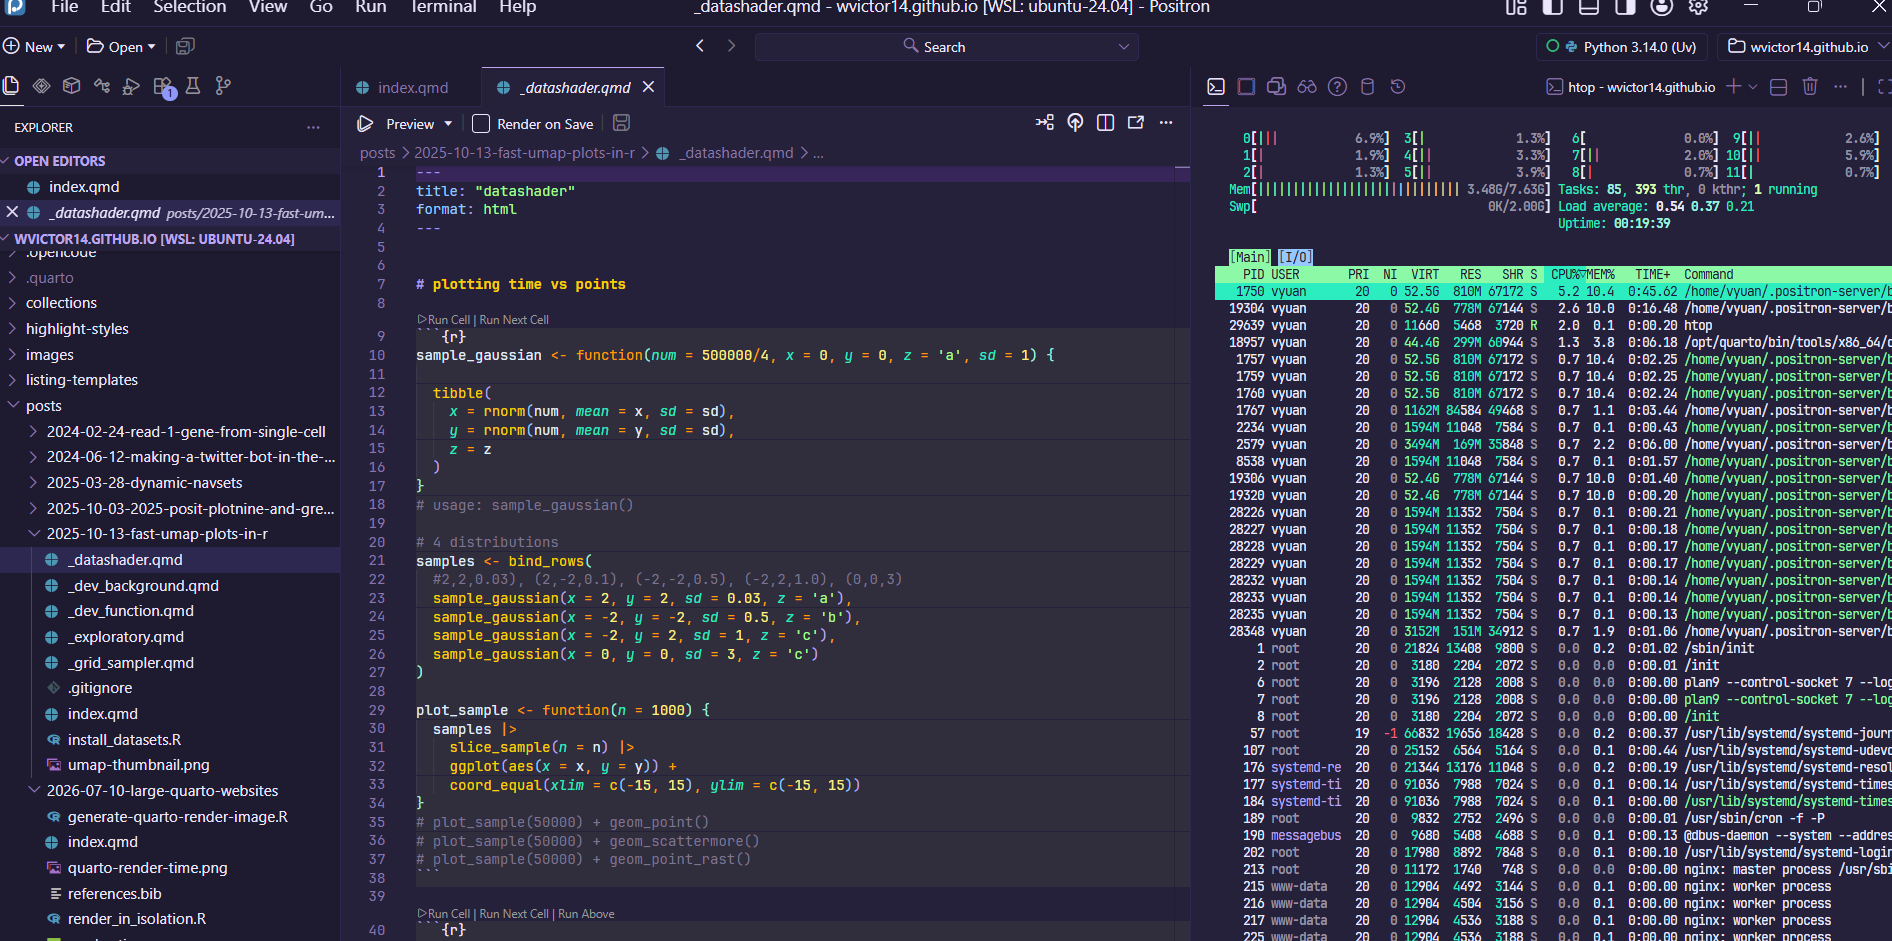
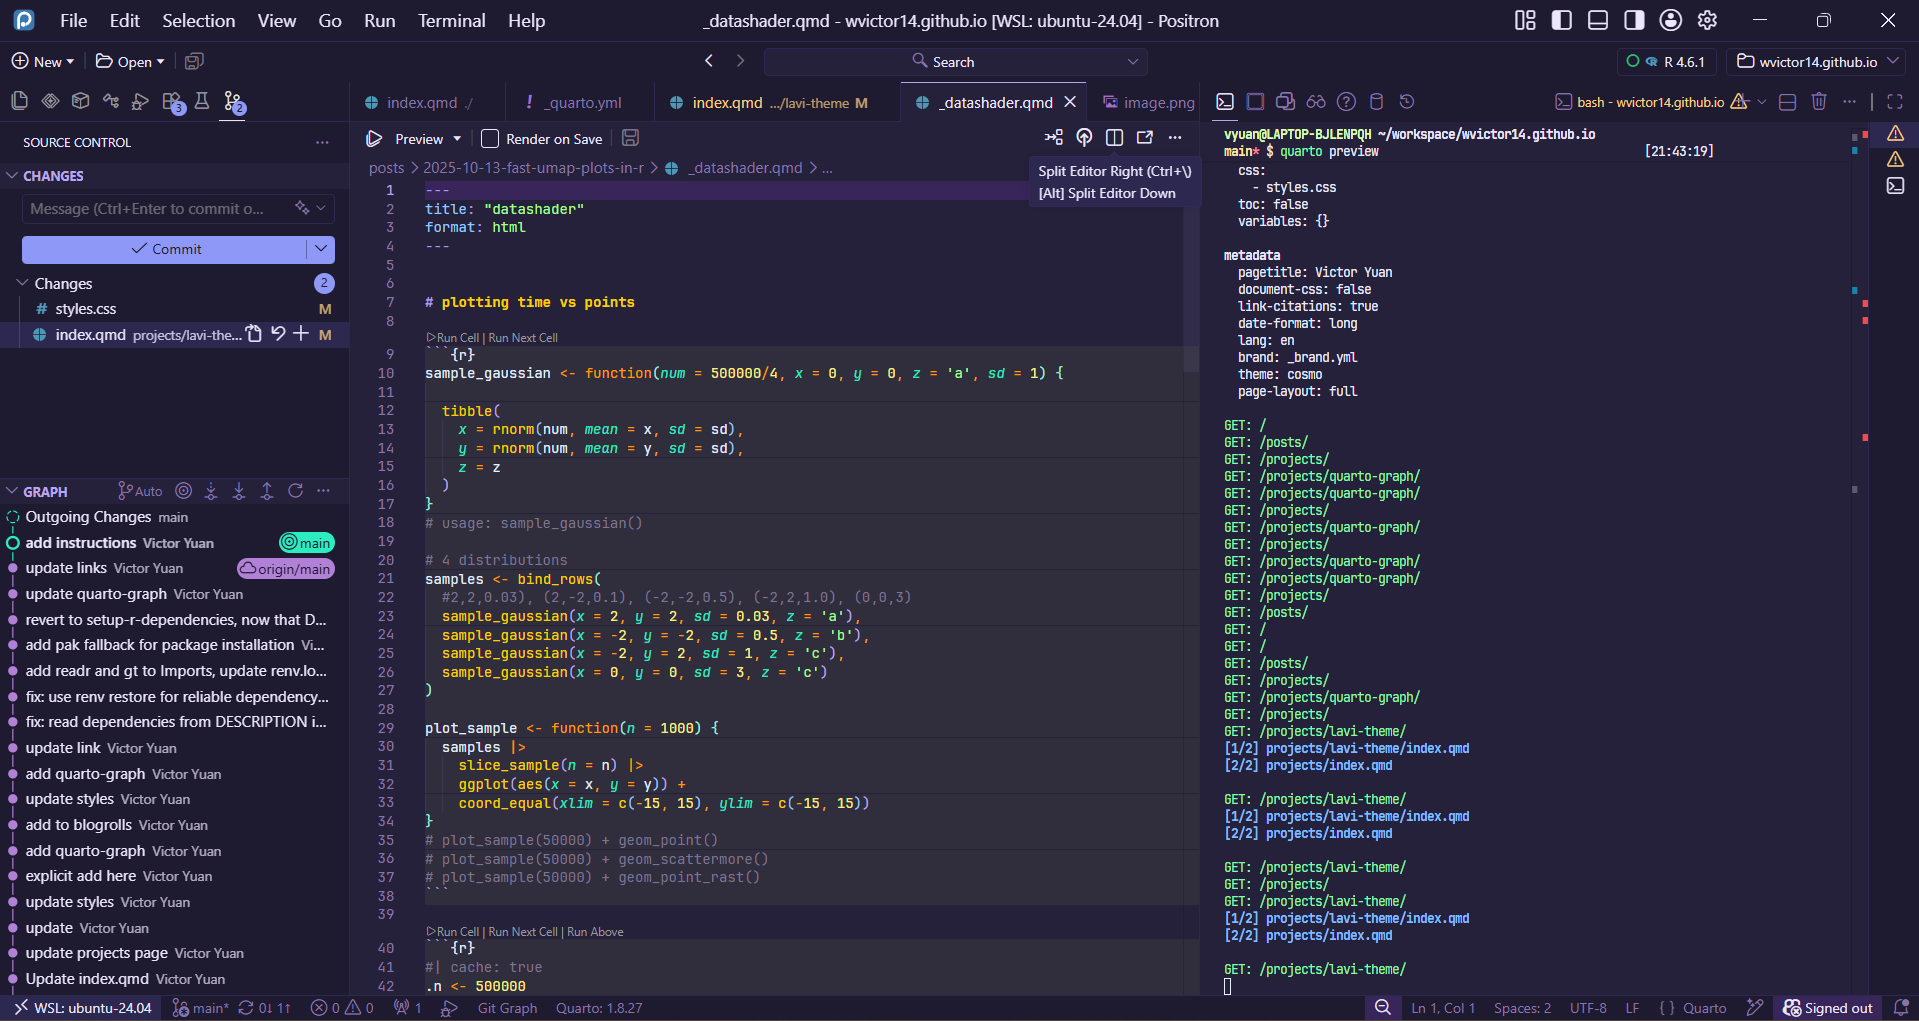
update lavi and quarto-graph pages

diff --git a/styles.css b/styles.css
@@ -46,8 +46,11 @@
   line-height: 1.75;
 }
 
-#quarto-document-content a:hover {
+#quarto-document-content p a,
+#quarto-document-content li a,
+#quarto-document-content blockquote a {
   text-decoration: underline;
+  text-underline-offset: 0.2em;
 }
 
 @media (max-width: 500px) {
